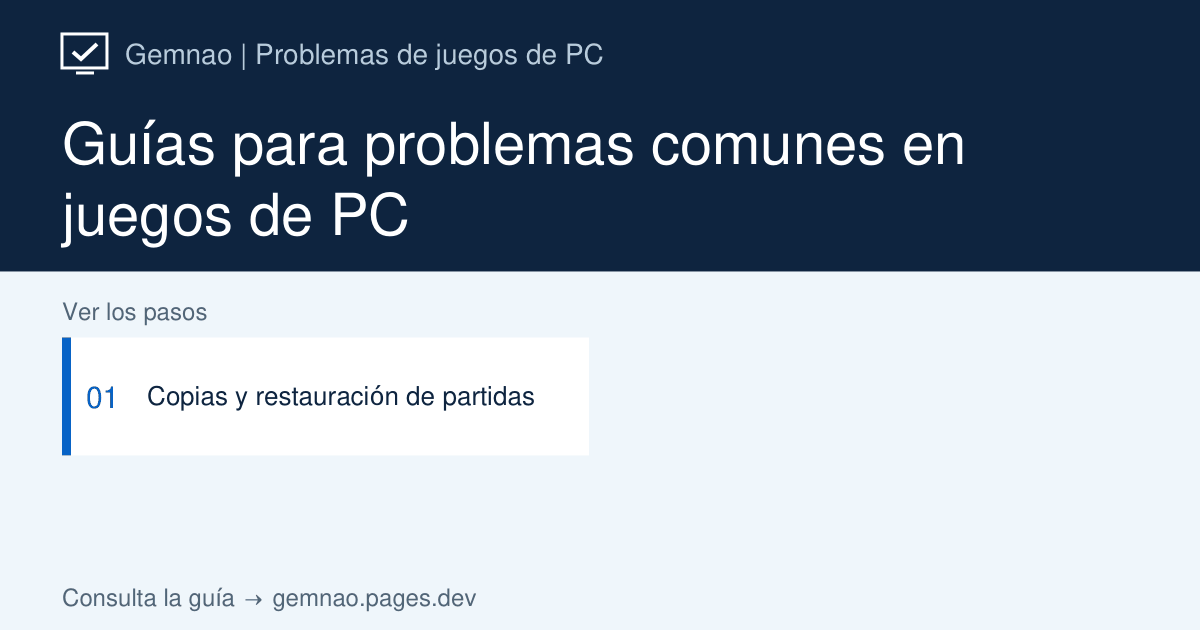
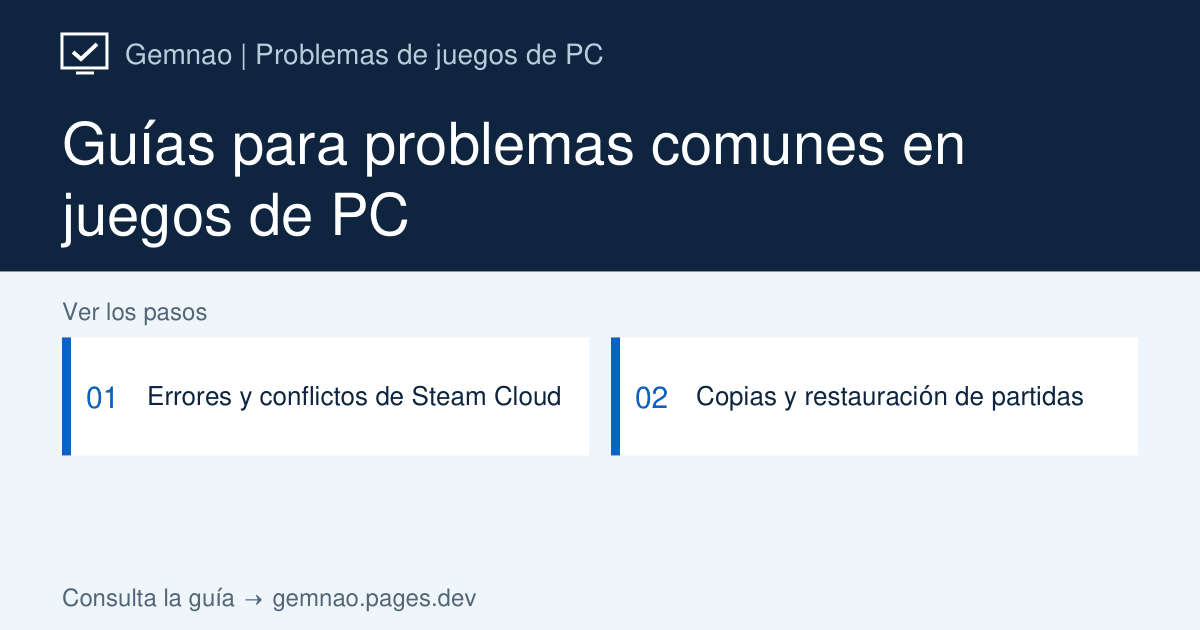
Add Chinese and Spanish Steam Cloud conflict guides

Changed region(s): [[0.1233, 0.6032, 0.4625, 0.6635], [0.5858, 0.6032, 0.8942, 0.6635], [0.4933, 0.5429, 0.555, 0.7238]]

diff --git a/lib/localized/cloud-guides-zh-es.ts b/lib/localized/cloud-guides-zh-es.ts
@@ -1,0 +1,284 @@
+import type { TranslatedCommonGuide } from './save-guides-zh-es';
+const base = {
+  slug: 'steam-cloud-sync-error',
+  path: '/guide/steam-cloud-sync-error',
+  topic: 'launch' as const,
+  checkedAt: '2026-10-18',
+};
+const urls = [
+  'https://help.steampowered.com/en/faqs/view/68D2-35AB-09A9-7678',
+  'https://partner.steamgames.com/doc/features/cloud',
+  'https://store.steampowered.com/account/remotestorage',
+];
+export const cloudGuidesZhEs: TranslatedCommonGuide[] = [
+  {
+    ...base,
+    locale: 'zh',
+    category: '存档保护与恢复',
+    title: 'Steam 云同步失败或冲突：选择版本前先保全存档',
+    shortTitle: 'Steam 云同步失败与冲突',
+    description:
+      '先保全各设备的本地存档和可下载的云文件，再处理 Steam 云冲突。结合游玩记录判断目标进度与覆盖方向，不要只看最新时间。',
+    lead: '适用于 Windows 上的 Steam 云警告。“无法同步”和需要选择本地/云端版本的冲突是不同情况。两者都不是删除文件、强制新建存档或默认选择最新时间的理由。',
+    summary:
+      '不要跳过同步警告启动游戏，也不要立即选择冲突版本。记录提示，分别备份各设备的本地存档，并在可用时下载云文件。核对最后一次确认正常保存的游玩记录和目标进度。如果无法确定应保留的版本及覆盖方向，保持副本不变并停止选择。',
+    sourcePolicy:
+      '根据日文原稿和已核对的英文版改写。Steam 官方资料支持同步行为与警告说明；保全顺序和判断示例是编辑建议，并非恢复保证。请结合具体游戏、商店和账号的官方说明。下列资料为英文，Remote Storage 需要本人登录。',
+    branches: [
+      {
+        symptom: 'Steam 提示无法同步',
+        action: '保持游戏关闭，保全本地文件后检查账号和连接。',
+        step: 'step-1',
+      },
+      {
+        symptom: '要求选择本地或云端版本',
+        action: '先记录并保全双方可取得的候选文件。',
+        step: 'step-1',
+      },
+      {
+        symptom: '用过两台电脑或离线游玩',
+        action: '分别整理各设备的游玩和同步记录。',
+        step: 'step-2',
+      },
+      {
+        symptom: '选了版本，但进度不对',
+        action: '停止继续保存，其他设备也不要启动游戏。',
+        step: 'step-4',
+      },
+    ],
+    steps: [
+      {
+        id: 'step-1',
+        title: '保持游戏关闭，保全所有可取得的候选文件',
+        actions: [
+          '记录完整警告以及显示的本地/云端时间。不要通过“继续游戏”或覆盖选择来关闭提示。Steam 提醒，在同步失败时继续游玩可能产生冲突变化并丢失进度，应先解决不确定性。',
+          '游戏关闭后，按发行商资料找到存档，复制到独立的日期文件夹。多设备时，先分别保全各设备的本地数据，并标记设备名称，再考虑启动游戏。不要为了强制同步而连接并启动原本离线的设备。',
+          '如果 Steam 官方 Remote Storage 页面列出该游戏的文件，在 Steam 自己的网站由本人登录，将文件下载到另一个保全文件夹。保留原文件名，并记录页面列出的路径与时间。列表为空不能单独证明进度已无法恢复。',
+          '如果只是同步失败而没有版本选择，记录当前 Steam 账号、游戏是否支持云同步以及该游戏的云设置。保持游戏关闭，检查正常网络连接和官方服务公告。不要关闭安全防护、清空存档目录或反复切换云开关作为修复方法。',
+        ],
+        next: '保全副本后进入步骤 2。相关设备或文件无法访问时，不要认定缺失的候选版本可以丢弃；保留现有资料并联系支持人员。',
+      },
+      {
+        id: 'step-2',
+        title: '核对各设备的进度与同步记录',
+        actions: [
+          '只有一台电脑时，记录最后一次确认保存成功的游玩、是否离线，以及想保留的角色、槽位或章节。使用当时的截图和笔记，不要重新启动游戏获取信息，以免自动保存。',
+          '有多台设备时，为每台分别记录最后游玩时间、已知进度，以及退出后是否完成同步。即使文件同名，也要分开保存本地备份。第一台尚未处理清楚时，不要在下一台启动游戏。',
+          '将记录与冲突时间比较，并考虑时钟或时区差异。时间戳表示文件事件，不一定代表目标章节。后来新建的空进度也可能比要保留的存档更新；云同步状态本身也不能证明所选存档可正确载入。',
+        ],
+        next: '如果记录能明确指出目标版本，且其他候选文件已保全，再阅读步骤 3 的条件示例。否则应在选择任一版本前停止。',
+      },
+      {
+        id: 'step-3',
+        title: '只有明确版本与覆盖方向时才选择',
+        actions: [
+          '条件示例，不是通用规则：如果只在电脑 A 游玩，且确认保全的本地存档包含较新的离线进度，而云端版本早于这次游玩，本地版本可能是目标。确认哪个选项会上传或保留它，再决定是否继续。',
+          '另一种情况：电脑 B 完成了目标进度并成功同步，电脑 A 的本地状态较旧，此时 A 上显示的云端版本可能是目标。判断依赖实际记录和保全副本，不是因为“云端”天然更安全。',
+          '较晚时间可能对应新游戏、其他槽位、错误的自动保存或不同账号时，不要猜测。保留副本，向发行商或 Steam 支持确认文件和选项。不要删除云元数据或用空文件替换存档来制造冲突。',
+          '普通同步失败在连接恢复后消失时，可能根本没有版本选择窗口。不要刻意制造一个。保留备份，只有警告已解决、预期版本明确时，才谨慎检查进度。',
+        ],
+        next: '能够确认目标版本及屏幕上操作的效果时，按已确认的选择处理，再进入步骤 4。方向或进度仍不明时停止；不要自动覆盖本地或云端版本。',
+      },
+      {
+        id: 'step-4',
+        title: '核对目标进度，避免把错误版本同步到其他设备',
+        actions: [
+          '载入前保留全部选择前的副本。在游戏提供信息的载入界面查看角色、槽位、游玩时间或章节。启动或载入可能自动保存，不按保存键也不能保证文件不变。',
+          '目标进度正确时，只进行必要确认后正常退出。另存一份带日期的已确认本地状态，并在使用其他设备前确认 Steam 正常同步完成。同步成功不代表旧的独立备份已无用途。',
+          '进度错误时关闭游戏，不再继续游玩，其他设备也保持关闭。将当前结果另存为有标记的新快照，不要删除原始候选文件。按备份指南和发行商支持的恢复流程处理，在替换前控制同步。',
+          '向支持人员提供准确警告、平台/商店、受影响设备和时间顺序，不要公开密码、账号令牌或私密存档内容。恢复的本地文件仍可能需要匹配版本或 MOD。如果会覆盖唯一剩余副本，应停止。',
+        ],
+        next: '进度正确且同步完成后，每次只在一台设备继续游玩并保留备份。进度错误或不明时，保留全部候选文件并联系官方支持，不要反复选择同步或覆盖。',
+      },
+    ],
+    cautions: [
+      '不要只按最新时间、“本地”或“云端”标签决定；这些信息都不能保证目标进度。',
+      '不要删除 Steam userdata、remotecache 文件、本地存档或云文件来强制重置。',
+      '没有独立副本且覆盖方向不明确时，不要接受破坏性覆盖或关闭安全防护。部分游戏还有发行商独立的跨平台存档，Steam 云设置不一定控制它。',
+    ],
+    faqs: [
+      {
+        question: 'Steam 提示无法同步时可以继续玩吗？',
+        answer:
+          '先保持游戏关闭，保全存档并解决警告。继续游玩可能产生另一个变化版本，让后续冲突判断更困难并增加进度损失风险。',
+      },
+      {
+        question: '本地和云端哪个总是更安全？',
+        answer:
+          '都不是。应结合已知游玩记录和保全的候选文件判断。文中的示例都有前提，不代表应始终上传本地或下载云端。',
+      },
+      {
+        question: 'Remote Storage 没有文件，是否代表进度没了？',
+        answer:
+          '仅凭列表不能下结论。检查账号、游戏云支持和本地副本。服务器端或发行商管理的进度可能采用不同恢复流程。',
+      },
+      {
+        question: '选错后能再选另一项撤销吗？',
+        answer:
+          '不要依赖这种做法。一次选择或后续自动保存可能改变可用文件。选择前保留独立副本；已经选错时，停止游玩并寻找受支持的恢复方式。',
+      },
+    ],
+    sources: urls.map((url, i) => ({
+      url,
+      label: [
+        'Steam：云冲突与同步失败警告（英文）',
+        'Steamworks：同步与单个游戏设置（英文）',
+        'Steam Remote Storage：本人登录后查看文件（英文）',
+      ][i],
+    })),
+    related: [
+      {
+        href: '/zh/guide/save-data-backup',
+        label: '备份核对与恢复前的停止条件',
+      },
+      {
+        href: '/en/gear/save-backup-storage-guide',
+        label: '选择独立备份存储位置（英文）',
+      },
+      {
+        href: '/en/guide/steam-game-not-launching',
+        label: '云警告解决后仍无法启动（英文）',
+      },
+    ],
+  },
+  {
+    ...base,
+    locale: 'es',
+    category: 'Protección y recuperación de partidas',
+    title:
+      'Error o conflicto de Steam Cloud: conserva las partidas antes de elegir',
+    shortTitle: 'Errores y conflictos de Steam Cloud',
+    description:
+      'Conserva las partidas locales y los archivos de nube disponibles antes de resolver un conflicto de Steam Cloud. Compara el historial de juego y confirma qué versión se sobrescribirá.',
+    lead: 'Para avisos de Steam Cloud en Windows. Un fallo de sincronización y una elección entre versiones locales y de nube son situaciones distintas. Ninguna justifica borrar archivos, forzar una partida nueva o asumir que la fecha más reciente contiene el progreso deseado.',
+    summary:
+      'No abras el juego ignorando un aviso de sincronización ni elijas inmediatamente una versión. Anota el mensaje, conserva las partidas locales de cada dispositivo y descarga los archivos de nube cuando estén disponibles. Compara la última sesión cuyo guardado conoces y el progreso deseado. Si no identificas el candidato correcto y la dirección de sobrescritura, detente con las copias intactas.',
+    sourcePolicy:
+      'Adaptación de la guía japonesa y de su edición inglesa revisada. La documentación oficial de Steam respalda el comportamiento y los avisos; el orden de conservación y los ejemplos de decisión son recomendaciones editoriales, sin garantía de recuperación. Consulta las instrucciones del juego, tienda y cuenta correspondientes. Las fuentes están en inglés y Remote Storage requiere que inicies sesión personalmente.',
+    branches: [
+      {
+        symptom: 'Steam indica que no puede sincronizar',
+        action:
+          'Cierra el juego, conserva los datos locales y comprueba cuenta y conexión.',
+        step: 'step-1',
+      },
+      {
+        symptom: 'Aparece una elección entre versión local y nube',
+        action:
+          'Registra y conserva ambos candidatos disponibles antes de elegir.',
+        step: 'step-1',
+      },
+      {
+        symptom: 'Has usado dos PC o jugado sin conexión',
+        action:
+          'Compara el historial real de juego y sincronización de cada equipo.',
+        step: 'step-2',
+      },
+      {
+        symptom: 'Elegiste una versión y el progreso es incorrecto',
+        action:
+          'Evita más guardados y deja el juego cerrado en los otros equipos.',
+        step: 'step-4',
+      },
+    ],
+    steps: [
+      {
+        id: 'step-1',
+        title:
+          'Mantén el juego cerrado y conserva todos los candidatos disponibles',
+        actions: [
+          'Anota el aviso completo y las fechas locales o de nube mostradas. No pulses una opción de continuar jugando o sobrescribir solo para cerrarlo. Steam advierte que jugar tras un fallo de sincronización puede crear cambios incompatibles y pérdida de progreso; aclara la situación antes de jugar.',
+          'Con el juego cerrado, localiza las partidas mediante la documentación del editor y cópialas a una carpeta independiente con fecha. Si hay varios equipos, conserva primero los datos locales de cada uno, identificando el dispositivo. No conectes y abras un equipo que estaba sin conexión solo para forzar la sincronización.',
+          'Si la página oficial Steam Remote Storage muestra archivos del juego, inicia sesión personalmente en el sitio de Steam y descárgalos a otra carpeta de conservación. Mantén los nombres originales y anota rutas y fechas indicadas. Una lista vacía no demuestra por sí sola que el progreso sea irrecuperable.',
+          'Si solo hay un error sin elección de versiones, anota la cuenta de Steam, si el juego admite Steam Cloud y su ajuste de nube. Comprueba la conexión habitual y los avisos oficiales manteniendo el juego cerrado. No desactives la protección, vacíes carpetas de partidas ni actives y desactives Cloud repetidamente como reparación.',
+        ],
+        next: 'Con las copias conservadas, compara el historial en el PASO 2. Si no puedes acceder a un dispositivo o archivo relevante, no des por descartable ese candidato: conserva lo disponible y consulta al soporte.',
+      },
+      {
+        id: 'step-2',
+        title:
+          'Compara el progreso y el historial de sincronización de los equipos',
+        actions: [
+          'Con un solo PC, anota la última sesión que sabes que guardó correctamente, si fue sin conexión y el personaje, ranura o capítulo que querías conservar. Usa capturas o notas de esa sesión, no una apertura nueva que pueda guardar automáticamente.',
+          'Con varios dispositivos, registra por separado la última sesión, el progreso conocido y si la sincronización terminó al salir. Mantén separadas las copias locales aunque compartan nombres. No abras el juego en otro equipo mientras el primero siga sin aclararse.',
+          'Compara esos registros con las fechas del conflicto, teniendo en cuenta relojes y zonas horarias diferentes. Una fecha describe un evento del archivo, no necesariamente el capítulo deseado. Una partida nueva posterior puede ser más reciente que tu progreso. El estado de Cloud tampoco demuestra que la partida elegida cargue bien.',
+        ],
+        next: 'Si el historial identifica claramente el candidato deseado y has conservado las alternativas, lee los ejemplos condicionales del PASO 3. En caso contrario, detente antes de elegir una versión.',
+      },
+      {
+        id: 'step-3',
+        title:
+          'Elige solo cuando conozcas el candidato y la dirección del cambio',
+        actions: [
+          'Ejemplo condicionado, no regla general: si solo usaste el PC A y sabes que su copia local conservada contiene progreso posterior sin conexión, mientras que la nube es anterior a esa sesión, el candidato local puede ser el deseado. Confirma qué opción lo sube o lo conserva antes de aceptar.',
+          'Otro ejemplo: si el PC B terminó la sesión deseada y sincronizó correctamente, mientras A conserva un estado local anterior, la versión de nube mostrada en A puede ser la correcta. Depende del historial real y de las copias, no de que la nube sea siempre más segura.',
+          'Si una fecha posterior puede corresponder a una partida nueva, otra ranura, un autoguardado incorrecto o una cuenta distinta, no adivines. Conserva las copias y consulta al editor o a Steam Support qué archivos y opción corresponden. Nunca provoques un conflicto borrando metadatos de nube o sustituyendo archivos por datos vacíos.',
+          'Un error normal que desaparece al volver la conexión puede no ofrecer ninguna elección entre candidatos. No la provoques deliberadamente. Conserva el respaldo y comprueba el progreso con cautela solo cuando el aviso esté resuelto y entiendas qué versión esperas.',
+        ],
+        next: 'Si identificas la versión deseada y el efecto de la acción mostrada, sigue esa elección confirmada y pasa al PASO 4. Si el progreso o la dirección siguen siendo inciertos, detente: no sobrescribas automáticamente la versión local ni la nube.',
+      },
+      {
+        id: 'step-4',
+        title: 'Comprueba el progreso y evita propagar una versión incorrecta',
+        actions: [
+          'Antes de cargar, conserva todas las copias previas a la selección. Revisa personaje, ranura, tiempo o capítulo en la pantalla de carga cuando el juego lo permita. Abrir o cargar puede guardar automáticamente; no pulsar Guardar no mantiene necesariamente los archivos intactos.',
+          'Si aparece el progreso esperado, comprueba solo lo necesario y sal normalmente. Guarda una copia nueva con fecha del estado local confirmado y verifica que Steam termine la sincronización normal antes de usar otro dispositivo. Una sincronización correcta no vuelve innecesarios los respaldos anteriores.',
+          'Si el progreso es incorrecto, cierra el juego, no sigas jugando y déjalo cerrado en los otros equipos. Conserva el resultado actual como otra copia identificada sin borrar los candidatos originales. Sigue la guía de copias y el procedimiento admitido por el editor, controlando la sincronización antes de reemplazar archivos.',
+          'Para pedir ayuda, facilita el aviso exacto, plataforma/tienda, dispositivos y cronología sin publicar contraseñas, tokens ni contenido privado de las partidas. Un archivo recuperado puede requerir la versión o los mods correspondientes. Detente si restaurar sobrescribiría la única copia restante.',
+        ],
+        next: 'Con progreso correcto y sincronización terminada, vuelve a jugar en un dispositivo cada vez y conserva las copias. Con progreso incorrecto o incierto, mantén los candidatos y consulta al soporte oficial en vez de repetir elecciones de sincronización o sobrescritura.',
+      },
+    ],
+    cautions: [
+      'No elijas solo por la fecha más reciente ni por las etiquetas local o nube: ninguna garantiza el progreso deseado.',
+      'No borres Steam userdata, archivos remotecache, partidas locales ni archivos de nube para forzar un reinicio.',
+      'No desactives la protección ni aceptes una sobrescritura destructiva sin copias independientes y una dirección confirmada. Algunos juegos tienen un sistema propio de guardado compartido que Steam Cloud no controla.',
+    ],
+    faqs: [
+      {
+        question: '¿Puedo jugar mientras Steam dice que no puede sincronizar?',
+        answer:
+          'Mantén el juego cerrado hasta conservar las partidas y resolver el aviso. Jugar puede generar otra versión modificada, complicar la decisión posterior y poner en riesgo el progreso.',
+      },
+      {
+        question: '¿Es siempre más segura la versión local o la nube?',
+        answer:
+          'Ninguna. Usa el historial conocido y los candidatos conservados. Los ejemplos tienen condiciones; no recomiendan subir siempre la copia local ni descargar siempre la nube.',
+      },
+      {
+        question:
+          'Remote Storage no muestra archivos. ¿He perdido el progreso?',
+        answer:
+          'La lista no basta para determinarlo. Comprueba cuenta, compatibilidad con Cloud y copias locales. El progreso en servidores o gestionado por el editor puede usar procedimientos distintos.',
+      },
+      {
+        question:
+          '¿Puedo deshacer una elección incorrecta eligiendo la otra opción después?',
+        answer:
+          'No cuentes con ello. La elección o un autoguardado posterior pueden cambiar lo que queda disponible. Conserva copias independientes antes de elegir; si ya elegiste mal, deja de jugar y busca una restauración admitida.',
+      },
+    ],
+    sources: urls.map((url, i) => ({
+      url,
+      label: [
+        'Steam: conflictos y avisos de sincronización (inglés)',
+        'Steamworks: sincronización y ajustes por juego (inglés)',
+        'Steam Remote Storage: consultar archivos tras iniciar sesión (inglés)',
+      ][i],
+    })),
+    related: [
+      {
+        href: '/es/guide/save-data-backup',
+        label: 'Comprobar copias y saber cuándo detener una restauración',
+      },
+      {
+        href: '/en/gear/save-backup-storage-guide',
+        label: 'Elegir un destino independiente para copias (inglés)',
+      },
+      {
+        href: '/en/guide/steam-game-not-launching',
+        label: 'El juego no arranca tras resolver el aviso de nube (inglés)',
+      },
+    ],
+  },
+];

diff --git a/lib/localized/save-guides-zh-es.ts b/lib/localized/save-guides-zh-es.ts
@@ -1,3 +1,4 @@
+import { cloudGuidesZhEs } from './cloud-guides-zh-es';
 import type { EnglishCommonGuide } from './common-guides-en';
 import { saveGuidesEn } from './save-guides-en';
 export type TranslatedCommonGuide = EnglishCommonGuide & {
@@ -12,6 +13,7 @@ const base = {
   checkedAt: '2026-10-18',
 };
 export const translatedCommonGuides: TranslatedCommonGuide[] = [
+  ...cloudGuidesZhEs,
   {
     ...base,
     locale: 'zh',
@@ -129,8 +131,8 @@ export const translatedCommonGuides: TranslatedCommonGuide[] = [
     })),
     related: [
       {
-        href: '/en/guide/steam-cloud-sync-error',
-        label: 'Steam 云冲突：选择版本前保全文件（英文）',
+        href: '/zh/guide/steam-cloud-sync-error',
+        label: 'Steam 云冲突：选择版本前保全文件',
       },
       {
         href: '/en/gear/save-backup-storage-guide',
@@ -263,9 +265,9 @@ export const translatedCommonGuides: TranslatedCommonGuide[] = [
     })),
     related: [
       {
-        href: '/en/guide/steam-cloud-sync-error',
+        href: '/es/guide/steam-cloud-sync-error',
         label:
-          'Conflictos de Steam Cloud: conserva las versiones antes de elegir (inglés)',
+          'Conflictos de Steam Cloud: conserva las versiones antes de elegir',
       },
       {
         href: '/en/gear/save-backup-storage-guide',

diff --git a/lib/og-image-manifest.ts b/lib/og-image-manifest.ts
@@ -149,8 +149,9 @@ export const ogImageManifest: Record<string, string> = {
   "/es/games/valorant/van9001": "9b45de19",
   "/es/games/valorant/van9003": "d42f36bc",
   "/es/games/valorant/van9005": "e9d8f44a",
-  "/es/guide": "76f21ca7",
+  "/es/guide": "03918d7d",
   "/es/guide/save-data-backup": "af6c4db6",
+  "/es/guide/steam-cloud-sync-error": "43431121",
   "/es/pc/repair-or-replace": "6d230706",
   "/examples/wilds-steam-added-dll": "14979c8e",
   "/games/ace-combat-8": "40d090cc",
@@ -373,7 +374,8 @@ export const ogImageManifest: Record<string, string> = {
   "/zh/games/valorant/van9001": "cf2198fc",
   "/zh/games/valorant/van9003": "59b46e6e",
   "/zh/games/valorant/van9005": "a091ce47",
-  "/zh/guide": "3bbbb47d",
+  "/zh/guide": "16b18149",
   "/zh/guide/save-data-backup": "f89e7558",
+  "/zh/guide/steam-cloud-sync-error": "6f32b89e",
   "/zh/pc/repair-or-replace": "061d3279"
 };

diff --git a/scripts/check-localized-pages.tsx b/scripts/check-localized-pages.tsx
@@ -289,8 +289,8 @@ for (const guide of commonGuidesEn) {
   assert.deepEqual(guide.steps.map(step => step.id), original.steps.map((_, i) => `step-${i + 1}`));
   check(`/en${guide.path}`, 'en', renderToStaticMarkup(<EnglishCommonGuide guide={guide} />));
   assert.equal(languageAlternates(guide.path).en, `/en${guide.path}`);
-  assert.equal(hasTranslation('zh', guide.path), guide.slug === 'save-data-backup');
-  assert.equal(hasTranslation('es', guide.path), guide.slug === 'save-data-backup');
+  assert.equal(hasTranslation('zh', guide.path), ['save-data-backup','steam-cloud-sync-error'].includes(guide.slug));
+  assert.equal(hasTranslation('es', guide.path), ['save-data-backup','steam-cloud-sync-error'].includes(guide.slug));
   for (const branch of guide.branches) assert.ok([...guide.steps, ...(guide.extraSections || [])].some(step => step.id === branch.step));
   pages++;
 }

diff --git a/docs/localization-source-blockers-2026-10-18.md b/docs/localization-source-blockers-2026-10-18.md
@@ -1,0 +1,15 @@
+# ゲーム記事の資料再確認待ち — 2026-10-18
+
+中西の共通ガイドは英語版で確認済みの資料と手順を再利用して進める。下記はゲーム固有の復元・MOD変更の条件が未確認のため新しい翻訳を公開しない。既存日本語記事を今回変更したという意味ではない。
+
+| 候補 | 正確な資料URL | 取得状況と確認が必要な条件 |
+|---|---|---|
+| Palworld ローカル保存・復元 | https://docs.google.com/document/d/e/2PACX-1vTm43IoZ--_EGVCd2_tZGJNf7HzjgJmYTRkfNk8rpKWxDQgMY5Cq8_w5x6xJBpx-c7_7TIqDYSw6WRp/pub | Web取得不可、実行環境からはCONNECT403。Q&A 5-1のゲーム内復元と5-2の旧手動復元の現行区分、対象版、置換されるデータ、内蔵backupと独立したworld全体コピーの違いを確認したい。 |
+| Wilds 保存・復元 | https://store.steampowered.com/news/app/2246340/view/1839676055896017 | 元記事の告知を取得できない。体験版引き継ぎ条件（製品版セーブがないこと）、対象版と更新番号を全文で確認したい。既存セーブを消して条件を満たす手順は掲載しない。 |
+| Wilds 告知の確認候補 | https://info.monsterhunter.com/wilds/update/en-us/Ver.1.042.00.00.html ／ https://store.steampowered.com/news/app/2246340/view/712282517277772136 | 公式検索結果には同版の告知が出たが本文条件の確認は未完了。公式サイト直接取得はCONNECT403。見出し・検索要約だけを全文確認として扱わない。 |
+| Elden Ring 保存・復元 | https://www.pcgamingwiki.com/wiki/Elden_Ring ／ https://store.steampowered.com/app/1245620/ELDEN_RING/ | 既存記事の保存階層・ER0000.sl2・GraphicsConfig.xmlは二次資料に依存。SteamストアのCloud対応だけでは手動復元互換性は保証できない。同一アカウント、版、MOD環境で復元が成立する条件と、既存状態を保持する方法を確認したい。 |
+| Elden Ring 起動 | https://bnfaq.channel.or.jp/faq/detail/2836/7485 ／ https://www.fromsoftware.jp/jp/faq-games.html | 前者は今回のWeb取得で404。後者の対応説明と新しい公式FAQの所在を確認したい。古いURLを根拠に設定リセットやMOD撤去を一律推奨しない。 |
+| Palworld 起動・MOD | https://steamcommunity.com/games/1623730/announcements/detail/686383649529010210 ／ https://guideline.palworldgame.com/palworld-mod-guideline | 1.0告知は画像参照のみ、ガイドラインはJavaScript必須で本文未取得。現行の非互換条件、対象の導入先・管理方法、保存保護、残留ファイルの確認条件を確認したい。名前だけでDLLやフォルダを削除する手順は作らない。 |
+| Palworld MOD補助資料 | https://github.com/pocketpairjp/PalworldModUploader/blob/main/PalworldModUploader/docs/en/04-Tech.md | 元記事の公式開発者資料。現行の導入先と管理対象を上記告知・ガイドラインと突き合わせる必要がある。この資料単独で全ユーザー環境の削除対象を断定しない。 |
+
+親ブラウザで本文を取得できる場合は、該当節と確認日時を共有すれば再評価できる。新しい権限や認証情報を作る必要はない。復元やMOD操作を実機で実行した事実はなく、成功実績は補わない。

diff --git a/docs/localization-backlog-2026-10-18.md b/docs/localization-backlog-2026-10-18.md
@@ -22,7 +22,7 @@
 | B | en/Discord一覧、mic-not-working、stream-no-audio、screen-share-black-screen | 公開済み `a520710979c830c5c11a89d74e4eba17a06a952a`。Pages `d9f19feb-7f5a-4480-9197-50abd4380715` 成功・SHA一致。英語一覧4本。 |
 | C1 | Palworld save-data・dedicated-server-backup、Wilds save-data、Elden Ring save-data | 専用サーバーバックアップ英語版は公開済み `17726c36603e585e7f05781becc1a808f2f31495`、Pages `8704c1d5-5cc1-4541-9f36-602953683f7a` 成功・SHA一致。ほか3件は出典再確認が未完了（Q&A・更新告知の取得制限／保存先の一次資料不足）。詳細は english-palworld-backup-review-2026-10-18.md。 |
 | C2 | Palworld not-launching、Elden Ring not-launching、Wilds fps等 | 既存英語記事・日本語利用実績・不足導線を確認して選定。未提供のアクセス数字は推測しない。 |
-| D | zh/es主要共通ガイド、各言語一覧・検索 | D初回: zh/es保存保護各1記事＋各一覧＋検索を実装・検証。クラウド競合・起動・クラッシュ等は未着手。記事がない一覧カードや架空hreflangを公開しない。 |
+| D | zh/es主要共通ガイド、各言語一覧・検索 | D初回は公開済み `3b1c21e30189b46e574f62a1adb47f0f5ce875d0`、Pages `4e1f98c9-a193-4f9b-a89b-8843266ff9b4` 成功・SHA一致。D次回: zh/esクラウド競合各1記事を追加・検証（一覧各2本、保存保護と相互リンク）。起動・クラッシュ等は次の対象。記事がない一覧カードや架空hreflangを公開しない。 |
 
 C候補の実在未対応パス:
 
@@ -39,3 +39,5 @@ C候補の実在未対応パス:
 各バッチで変更対象だけcommitし、検証・配備結果は独立管理。既存collector関連の未公開3ファイルを含めない。本番の合成投票、GAイベント、課金・権限・セキュリティ変更は行わない。
 
 Bの先行調査（本文実装は次バッチ）: `discordArticleBySlug`でマイク5原因、配信音声4原因、黒画面5原因を確認。既存翻訳モデルは`cause-1`形式。公式DiscordのVoice & Video、Go Live、Windows capture資料は取得できた。現行案内のVoiceタブ／Debuggingタブと旧画面表記を区別し、2022年のcapture記事を現在の全構成で保証された挙動とは扱わない。
+
+ゲーム別で保留している正確な資料URLと条件は [資料再確認待ち](localization-source-blockers-2026-10-18.md) を参照。

diff --git a/docs/cloud-guides-zh-es-review-2026-10-18.md b/docs/cloud-guides-zh-es-review-2026-10-18.md
@@ -1,0 +1,11 @@
+# 中西のSteam Cloud競合ガイド — 2026-10-18
+
+対象: `/zh/guide/steam-cloud-sync-error` と `/es/guide/steam-cloud-sync-error`。検証済み英語版の4 STEP・操作数4/3/4/4・4 FAQ・注意3件・同じ公式3出典を維持。単純な同期失敗と候補選択を区別し、各機器・クラウドの保全、履歴比較、条件付き選択、結果確認の順序を翻訳した。上書き方向が不明なら停止し、最新日時やlocal/cloudラベルを安全性の保証にしない。
+
+各言語一覧は2本。保存保護記事との関連記事を各言語内で相互接続。検索・OG・sitemap・相互hreflangは既存の登録方式を利用。未翻訳の起動記事などは英文／inglésを明記。
+
+ゲーム別の保留資料と未確認条件は `localization-source-blockers-2026-10-18.md` にまとめた。未公開collector3ファイルは除外し、本番の合成回答・解析イベント送信は行わない。
+
+検証完了: localized 210ページ、変更箇所lint、strict型検査、隔離production build。458静的HTML・437 sitemap URL・377 OG。既存英語17組/内部リンク795件と中西6ページの相互metadata・schema・sitemap検査成功。Chromiumでen/zh/es、375/390/1440pxの一覧＋Cloud記事18組・検索18件・中西の保存保護→Cloud関連記事を確認。未翻訳の起動/クラッシュは404。横スクロール・アンカー切れ・JS例外・CSS/JS失敗・API書き込みなし。中西本文とOGを目視確認。
+
+本番HTML/CSS/JSの直接確認は親ブラウザ担当に依頼。Pagesのcommit一致・成功確認とは分けて扱う。
